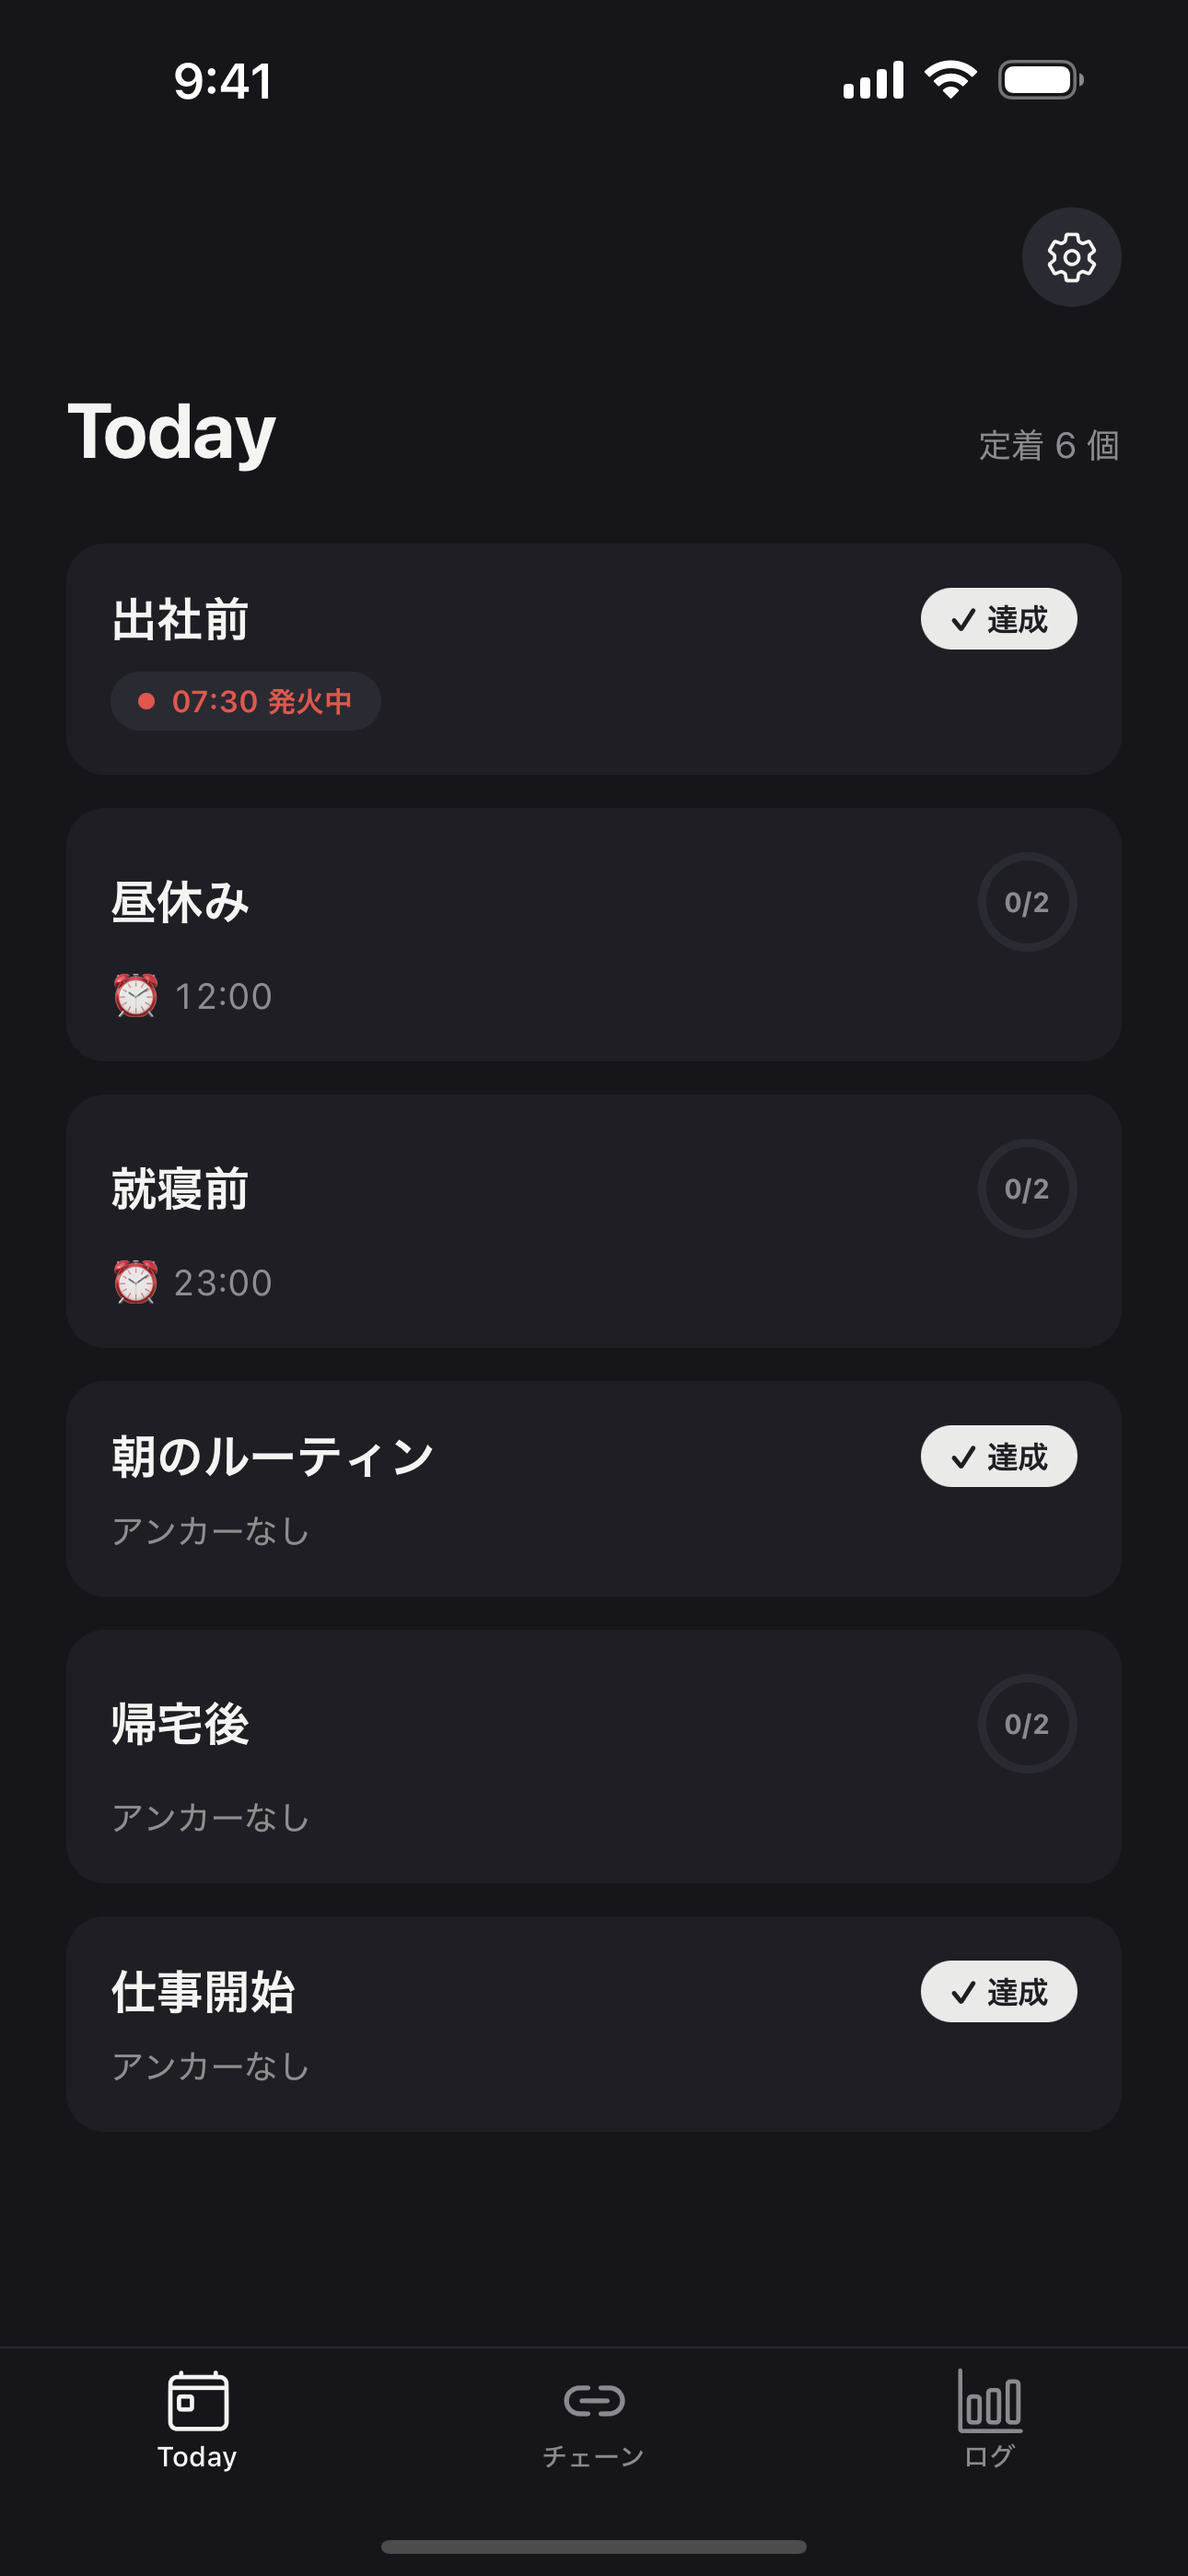
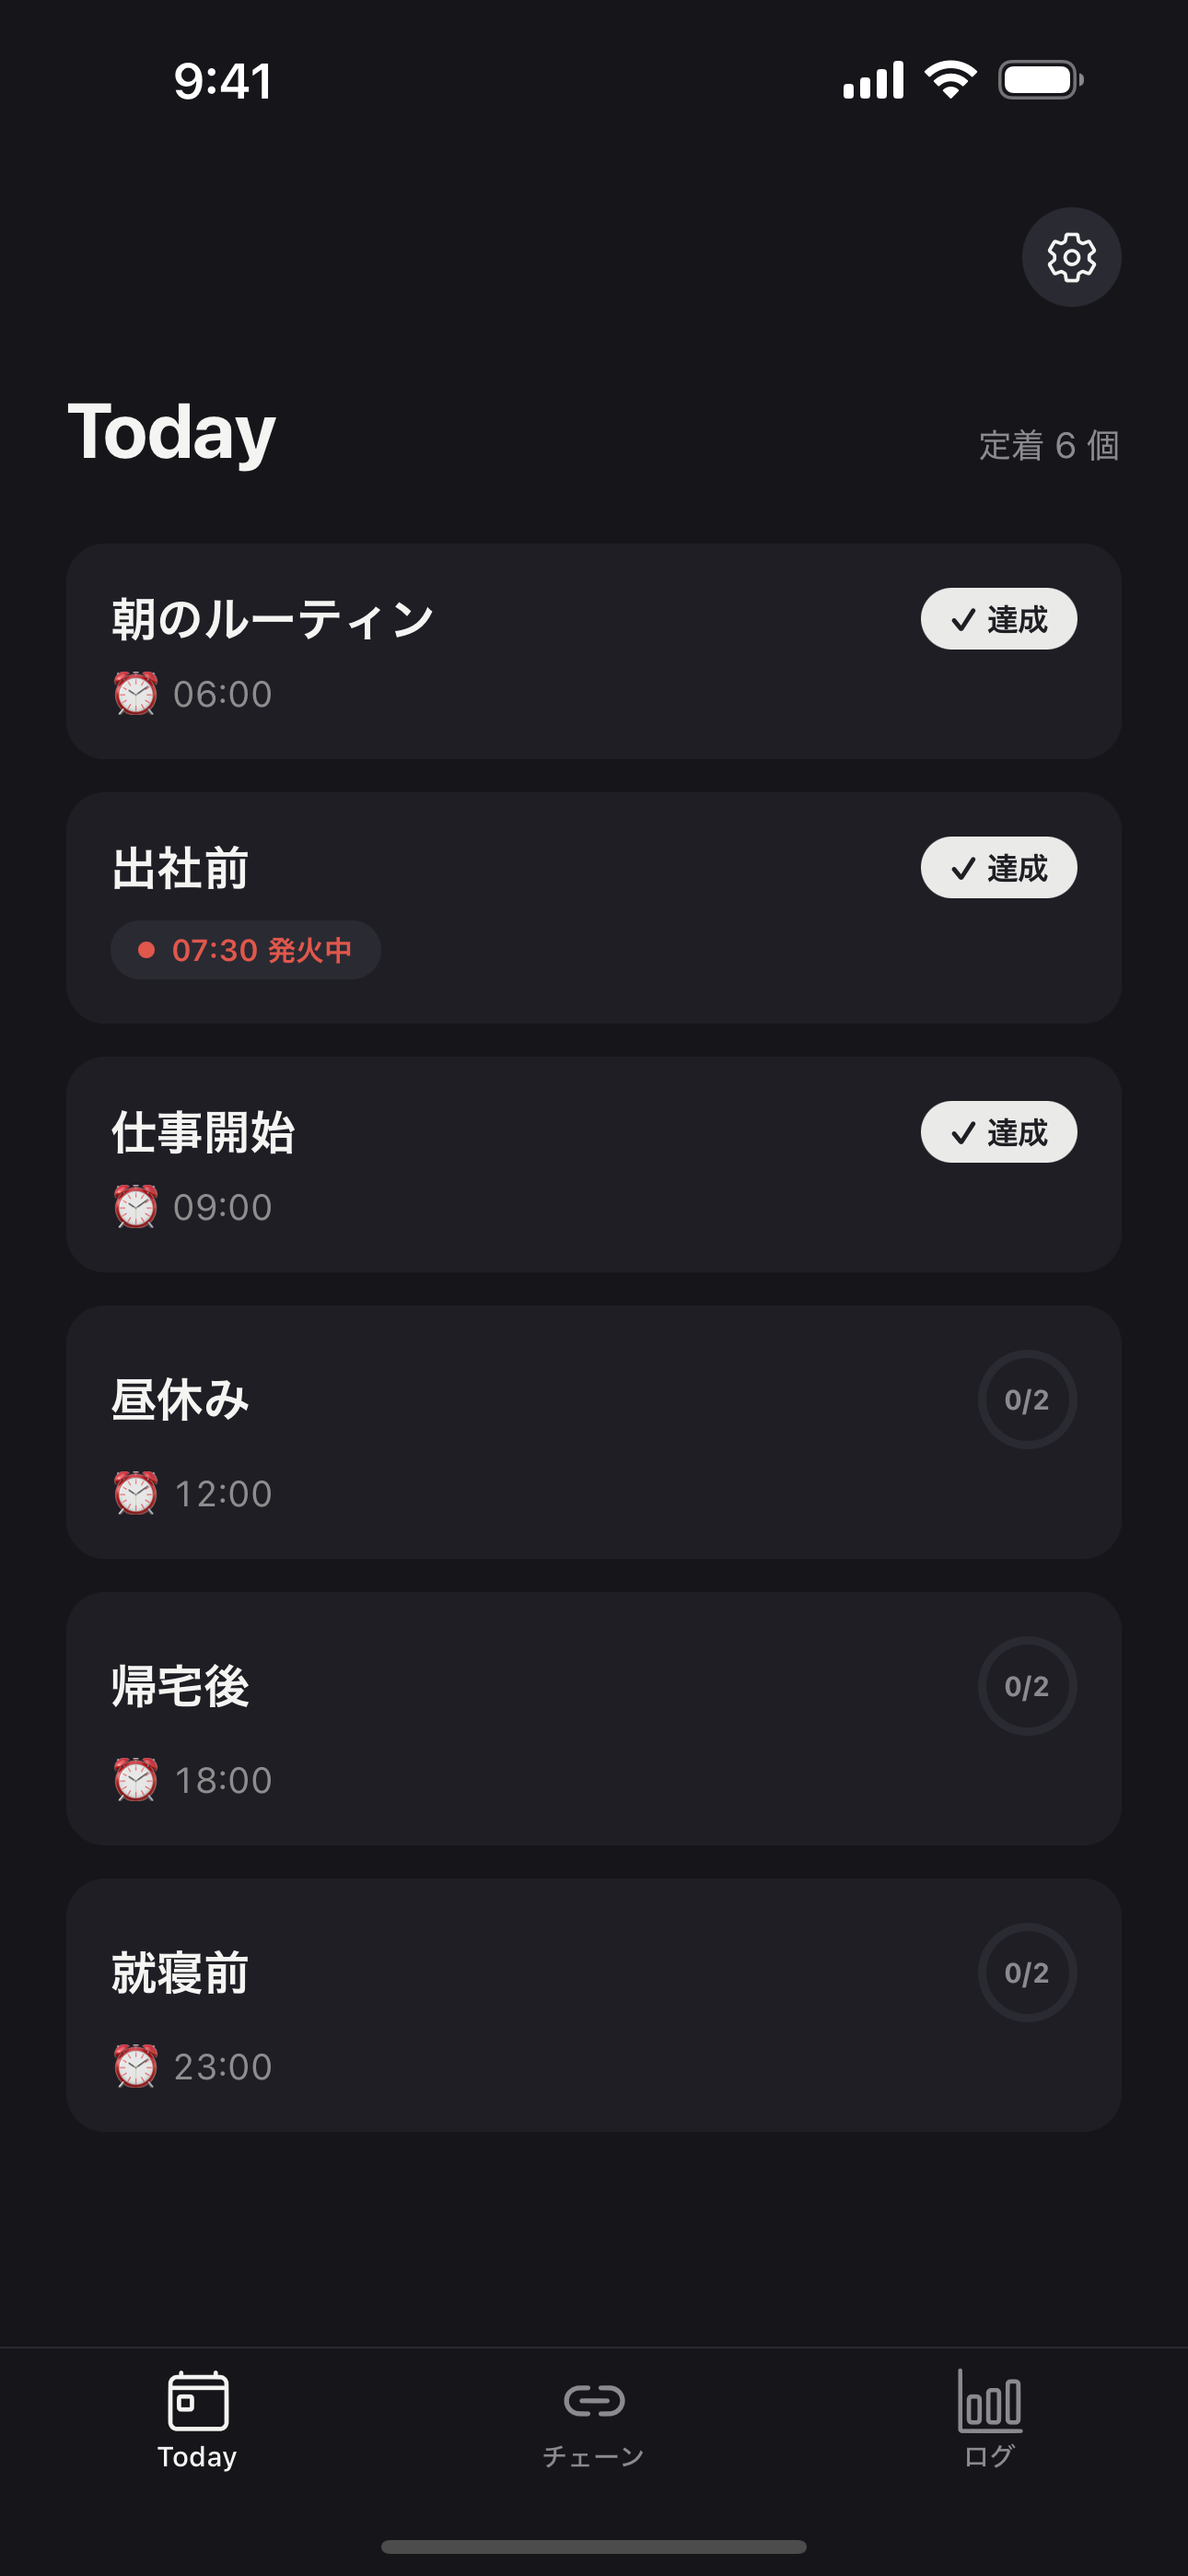
feat: スクショの Today/一覧を時系列順に + detail/edit を長いチェーンに #239
- screenshotSeed.ts: 日次3チェーン(朝/仕事/帰宅)を behavior→時刻アンカーに変更
  (06:00/09:00/18:00)。Today が時系列順(朝06:00→就寝23:00)で並ぶ
- 02 detail / 05 edit は先頭の朝のルーティン(4ノード・定着star3)を撮影
- screenshots.maestro.yaml: 05 タップを一覧先頭(50%,25%)に修正
- 5枚を撮り直し (1290x2796)

再現には feat/screenshot-build の再ビルドが必要 (seed はビルドに焼かれる)。

diff --git a/src/screenshotSeed.ts b/src/screenshotSeed.ts
@@ -92,7 +92,7 @@ const CHAINS: ChainSpec[] = [
     id: 'ss-chain-morning',
     title: '朝のルーティン',
     status: 'active',
-    anchor: behaviorAnchor('ss-anchor-wake', '起床'),
+    anchor: timeAnchor('ss-anchor-wake', '6:00', '06:00'),
     firedToday: false,
     nodes: [
       { id: 'ss-n-water', actionTitle: '水を飲む', profile: settledSteady },
@@ -116,7 +116,7 @@ const CHAINS: ChainSpec[] = [
     id: 'ss-chain-evening',
     title: '帰宅後',
     status: 'active',
-    anchor: behaviorAnchor('ss-anchor-home', '帰宅'),
+    anchor: timeAnchor('ss-anchor-home', '18:00', '18:00'),
     firedToday: false,
     nodes: [
       { id: 'ss-n-wash', actionTitle: '手を洗う', profile: settledSteadyPast },
@@ -143,7 +143,7 @@ const CHAINS: ChainSpec[] = [
     id: 'ss-chain-work',
     title: '仕事開始',
     status: 'active',
-    anchor: behaviorAnchor('ss-anchor-desk', '席に着く'),
+    anchor: timeAnchor('ss-anchor-desk', '9:00', '09:00'),
     firedToday: false,
     nodes: [
       { id: 'ss-n-mail', actionTitle: 'メールを確認', profile: settledSteady },
